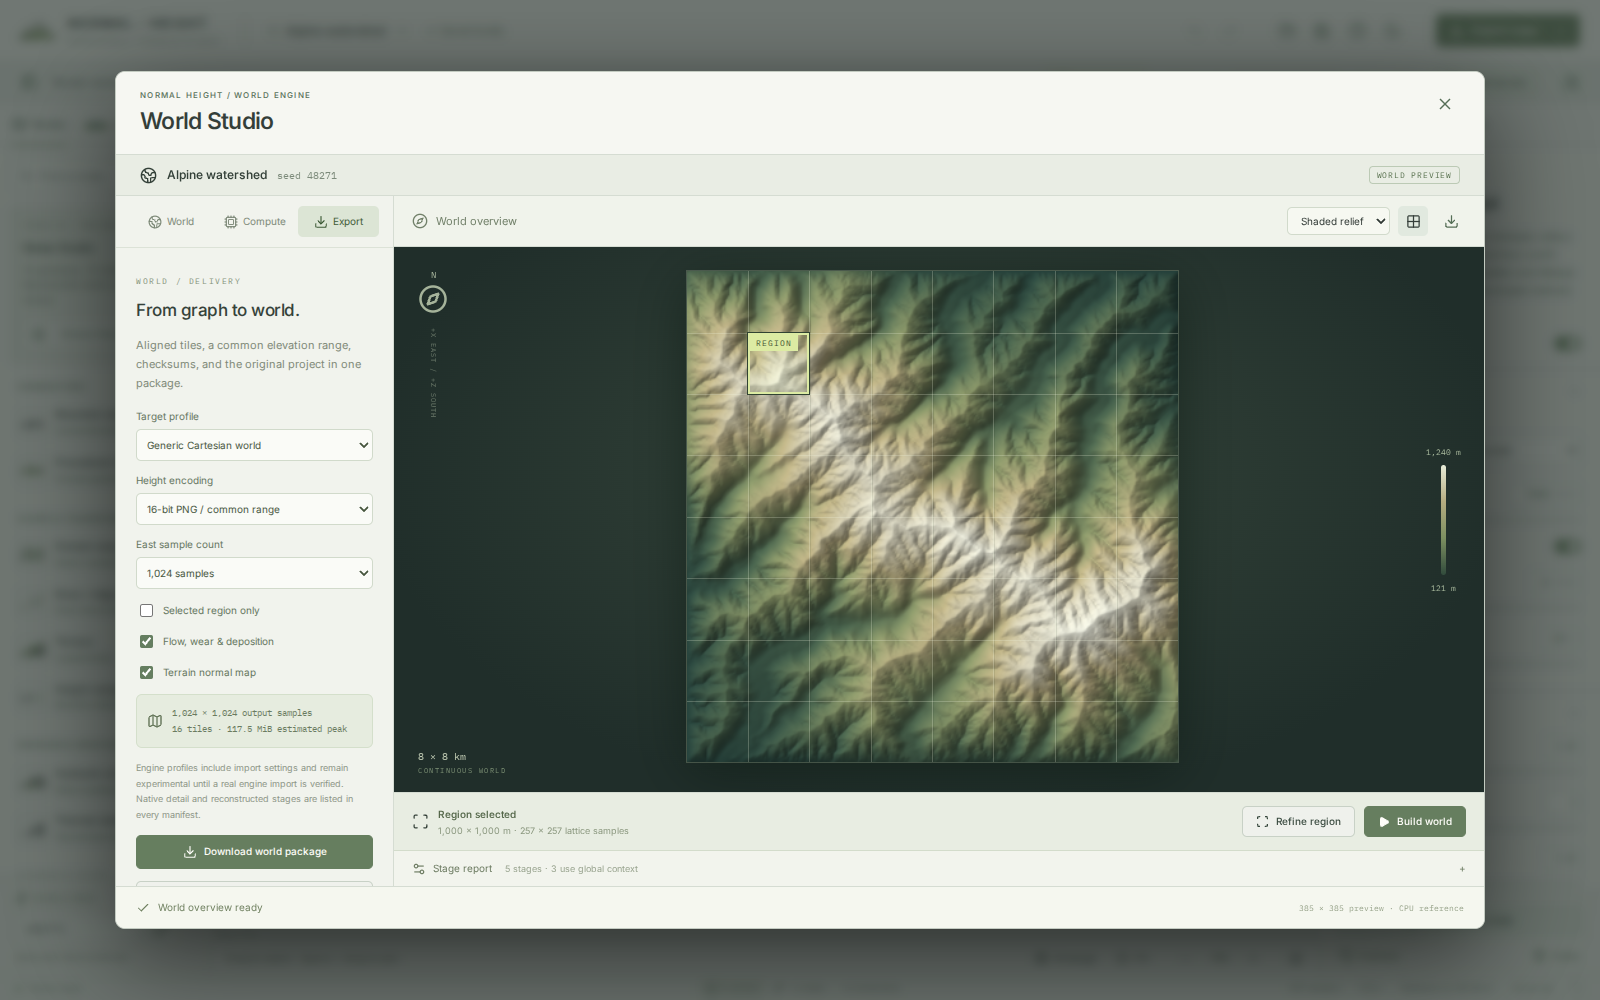
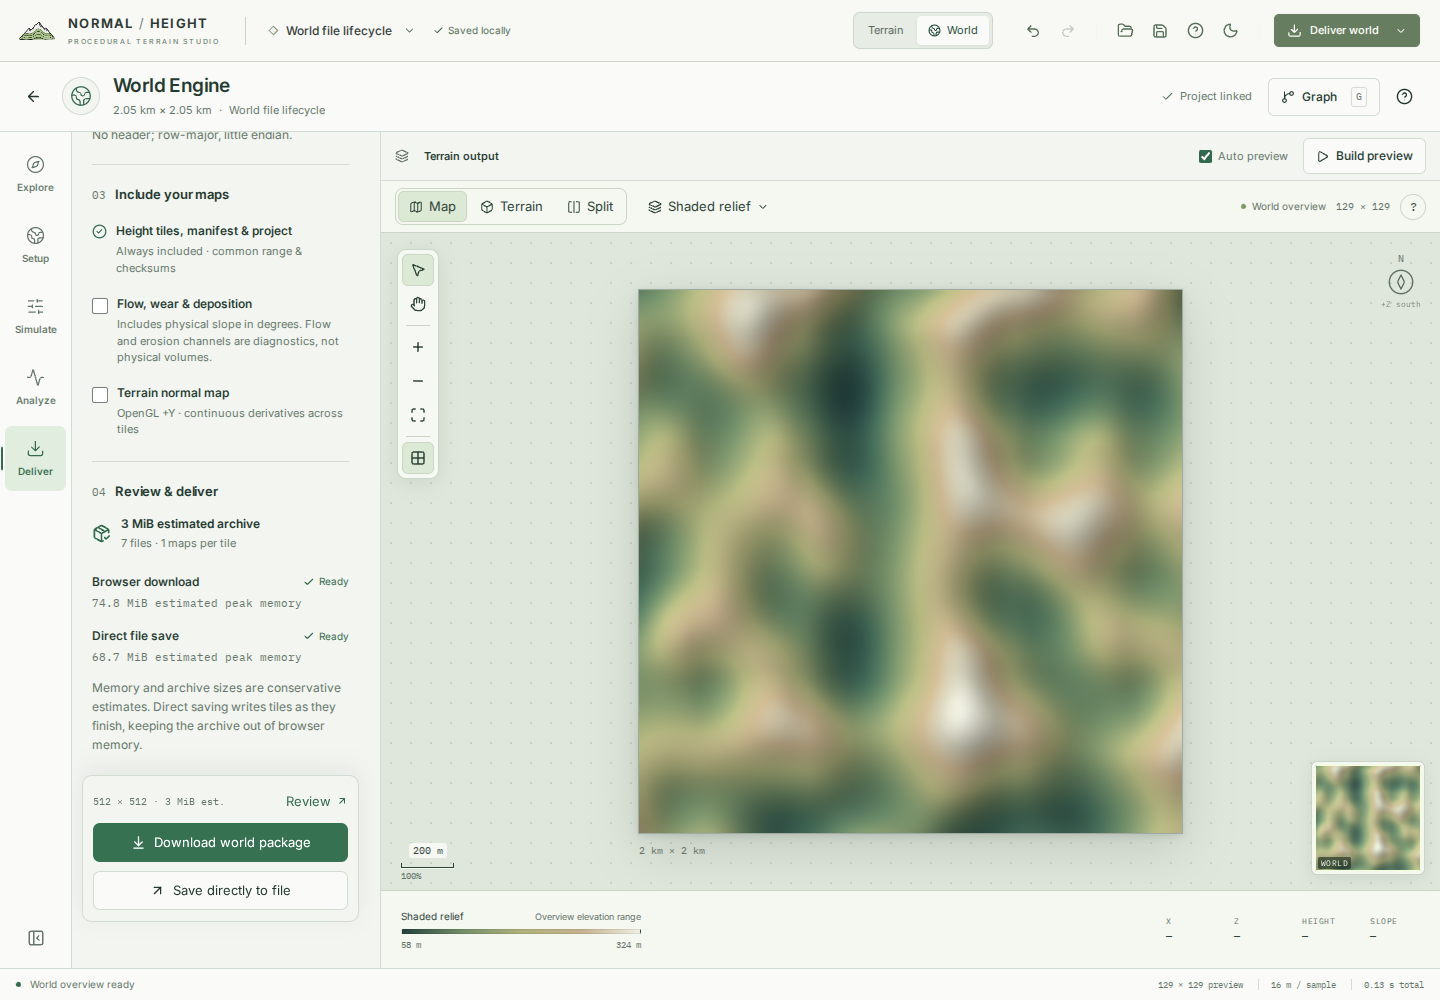
Publish verified World workspace screenshots and stabilize readiness checks

diff --git a/tests/e2e/world-studio.spec.ts b/tests/e2e/world-studio.spec.ts
@@ -58,7 +58,9 @@ test('World Studio builds, refines, exports aligned tiles, and saves explicit wo
     mimeType: 'application/json',
     buffer: Buffer.from(JSON.stringify(project)),
   });
-  await expect(page.getByText('Terrain ready', { exact: true })).toBeVisible();
+  await expect(
+    page.getByRole('contentinfo').getByText('Terrain ready', { exact: true }),
+  ).toBeVisible();
   await page.getByRole('button', { name: 'Build terrain', exact: true }).click();
   await expect(page.getByRole('button', { name: 'Compute diagnostics' })).toContainText('3 cached');
   await page.getByRole('button', { name: 'World Studio', exact: true }).click();
@@ -156,7 +158,9 @@ test('cancelled world work cannot publish and the workspace fits a compact viewp
     await route.continue();
   });
   await page.goto('/');
-  await expect(page.getByText('Terrain ready', { exact: true })).toBeVisible({ timeout: 90_000 });
+  await expect(
+    page.getByRole('contentinfo').getByText('Terrain ready', { exact: true }),
+  ).toBeVisible({ timeout: 90_000 });
   await page.getByRole('button', { name: 'World Studio', exact: true }).click();
   const dialog = page.getByRole('region', { name: 'World Studio', exact: true });
   await dialog.getByRole('button', { name: 'Cancel preview', exact: true }).click();

diff --git a/tests/e2e/world-transport.spec.ts b/tests/e2e/world-transport.spec.ts
@@ -61,7 +61,9 @@ test('World transport is opt-in and reports a finite conservative 64² reference
   });
   await expect(page.getByText(project.name, { exact: true })).toBeVisible();
   await page.getByRole('button', { name: 'Build terrain', exact: true }).click();
-  await expect(page.getByText('Terrain ready', { exact: true })).toBeVisible({ timeout: 90_000 });
+  await expect(
+    page.getByRole('contentinfo').getByText('Terrain ready', { exact: true }),
+  ).toBeVisible({ timeout: 90_000 });
   await page.getByRole('button', { name: 'World Studio', exact: true }).click();
   const dialog = page.getByRole('region', { name: 'World Studio', exact: true });
   await expect(dialog.getByText('World overview ready', { exact: true })).toBeVisible({

diff --git a/tests/e2e/world-highres.spec.ts b/tests/e2e/world-highres.spec.ts
@@ -222,7 +222,9 @@ test('actual CPU World UI downloads and independently verifies 4096 and 8192 PNG
       buffer: Buffer.from(projectJSON),
     });
     await expect(page.getByRole('button', { name: project.name, exact: true })).toBeVisible();
-    await expect(page.getByText('Terrain ready', { exact: true })).toBeVisible({ timeout: 90_000 });
+    await expect(
+      page.getByRole('contentinfo').getByText('Terrain ready', { exact: true }),
+    ).toBeVisible({ timeout: 90_000 });
     await page.getByRole('button', { name: '2D map', exact: true }).click();
     await expect(page.getByRole('button', { name: '2D map', exact: true })).toHaveAttribute(
       'aria-pressed',

diff --git a/tests/e2e/world-file-export.spec.ts b/tests/e2e/world-file-export.spec.ts
@@ -185,7 +185,9 @@ async function openExport(page: Page, duplicateMasks = false) {
     buffer: Buffer.from(JSON.stringify(project)),
   });
   await expect(page.getByRole('button', { name: project.name, exact: true })).toBeVisible();
-  await expect(page.getByText('Terrain ready', { exact: true })).toBeVisible();
+  await expect(
+    page.getByRole('contentinfo').getByText('Terrain ready', { exact: true }),
+  ).toBeVisible();
   await page.getByRole('button', { name: '2D map', exact: true }).click();
   await page.getByRole('button', { name: 'World Studio', exact: true }).click();
   const dialog = page.getByRole('region', { name: 'World Studio', exact: true });

diff --git a/tests/e2e/world-cache.spec.ts b/tests/e2e/world-cache.spec.ts
@@ -33,7 +33,9 @@ async function openWorld(page: Page, fixture: Buffer, reload = false): Promise<L
     mimeType: 'application/json',
     buffer: fixture,
   });
-  await expect(page.getByText('Terrain ready', { exact: true })).toBeVisible({ timeout: 90_000 });
+  await expect(
+    page.getByRole('contentinfo').getByText('Terrain ready', { exact: true }),
+  ).toBeVisible({ timeout: 90_000 });
   await page.getByRole('button', { name: 'World Studio', exact: true }).click();
   const workspace = page.getByRole('region', { name: 'World Studio', exact: true });
   // Keep explicit builds observable; camera settling must not replace their

diff --git a/tests/e2e/world-workspace.spec.ts b/tests/e2e/world-workspace.spec.ts
@@ -40,7 +40,9 @@ async function openWorkspace(page: Page) {
     mimeType: 'application/json',
     buffer: Buffer.from(JSON.stringify(project)),
   });
-  await expect(page.getByText('Terrain ready', { exact: true })).toBeVisible({ timeout: 90_000 });
+  await expect(
+    page.getByRole('contentinfo').getByText('Terrain ready', { exact: true }),
+  ).toBeVisible({ timeout: 90_000 });
   await page.getByRole('button', { name: 'World Studio', exact: true }).click();
   const studio = page.getByRole('region', { name: 'World Studio', exact: true });
   await expect(studio.getByText('World overview ready', { exact: true })).toBeVisible({

diff --git a/src/components/world/WorldExportPanel.tsx b/src/components/world/WorldExportPanel.tsx
@@ -750,7 +750,7 @@ export function WorldExportPanel({
               </strong>
               <small>
                 {estimate
-                  ? `${number(plan.files, 0)} files · ${number(plan.mapCount, 0)} maps per tile`
+                  ? `${number(plan.files, 0)} files · ${number(plan.mapCount, 0)} ${plan.mapCount === 1 ? 'map' : 'maps'} per tile`
                   : 'Resolve the issue below to continue.'}
               </small>
             </div>

diff --git a/docs/MEDIA.md b/docs/MEDIA.md
@@ -4,18 +4,28 @@ Repository screenshots and GIFs are captured from the production application,
 with real generated heightfields, rendered materials, editor controls and
 worker diagnostics. They are not generated marketing mockups.
 
-| Asset                    | What it shows                                                                |
-| ------------------------ | ---------------------------------------------------------------------------- |
-| `studio-3d.png`          | Current Alpine terrain, graph and inspector, golden-hour lighting            |
-| `studio-flow.png`        | The actual hydraulic flow diagnostic                                         |
-| `landscape-tour.gif`     | Alpine watershed plus recent Studio ridgelands, wind dunes and impact fields |
-| `compute-cache.png`      | A real repeated build with upstream cache reuse                              |
-| `world-studio.png`       | Continuous world overview, shared tile grid and selected region              |
-| `world-stage-report.png` | Regional preview with explicit global/native stage spacing                   |
-| `world-export.png`       | Current tiled world package controls                                         |
-| `world-workflow.gif`     | Overview → selection → refinement → diagnostic maps → stage report → export  |
+| Asset                       | What it shows                                                                 |
+| --------------------------- | ----------------------------------------------------------------------------- |
+| `studio-3d.png`             | Current Alpine terrain, graph and inspector, golden-hour lighting             |
+| `studio-flow.png`           | The actual hydraulic flow diagnostic                                          |
+| `landscape-tour.gif`        | Alpine watershed plus recent Studio ridgelands, wind dunes and impact fields  |
+| `compute-cache.png`         | A real repeated build with upstream cache reuse                               |
+| `world-studio.png`          | Persistent World workspace with overview, shared tile grid and physical scale |
+| `world-workspace-split.png` | The same completed World samples in Map and physical 3D panes                 |
+| `world-workspace-dark.png`  | Dark Analyze workspace with histogram, elevation section and comparison       |
+| `world-stage-report.png`    | Earlier numerical reference capture of global/native stage spacing            |
+| `world-export.png`          | Deliver preflight with destination budgets and reachable actions              |
+| `world-export-receipt.png`  | Completed file export with captured dimensions, encoding and receipt          |
+| `world-workflow.gif`        | Overview → selection → refinement → diagnostic maps → stage report → export   |
 
-`images/capture-provenance.json` records the exact source revision, UTC capture
+The persistent World workspace PNGs were copied from the production-browser
+evidence in [World Engine correctness run 45710438900](https://github.com/dovvnloading/Normal-Height/actions/runs/45710438900).
+Their source commit, viewport and rendering environment are recorded separately
+in `images/world-workspace-provenance.json`. Run the World browser suite to
+regenerate these screenshots in `test-results/`; its controlled export picker
+uses real production workers, writes and archive verification.
+
+For the earlier Terrain and walkthrough media, `images/capture-provenance.json` records the exact source revision, UTC capture
 time, browser version, viewport, rendering backend and landscapes. A software
 capture is labeled ANGLE SwiftShader and must never be presented as hardware
 WebGPU or performance evidence. Camera/material/light controls remain actual

diff --git a/docs/WORLD_WORKSPACE.md b/docs/WORLD_WORKSPACE.md
@@ -16,6 +16,8 @@ The procedural graph can be opened as a resizable dock in the World workspace. S
 
 Valid World settings are linked back to the project through the normal project history and persistence path. An incomplete numeric edit stays in its field until it is committed with Enter or blur. Escape restores the current authored value. A failed save keeps the draft visible and reports the problem.
 
+![World Engine with the same sampled terrain in Map and Terrain panes](images/world-workspace-split.png)
+
 ## Navigation and display
 
 The map uses local Cartesian meters: +X is east, +Z is south, and the first raster row is north. Elevation is `datum + normalized terrain height × heightScale`. These coordinates are not a geographic coordinate reference system.
@@ -68,11 +70,15 @@ Statistics, histograms and elevation sections describe the completed preview gri
 
 **Pin current terrain** retains a completed field in memory. Wipe and elevation-difference comparisons require the same physical footprint. Compatible fields with different sample counts are interpolated for display. Both sides use a common color range, and differences compare physical elevations including scale and datum. The pinned field remains unchanged while a replacement build runs. Comparison mode holds its footprint instead of scheduling navigation-driven sampling.
 
+![Dark Analyze workspace with elevation distribution, a physical section and a pinned comparison](images/world-workspace-dark.png)
+
 ## Delivery is an independent job
 
 Delivery starts with a captured copy of the project, World definition, region, maps, profile and output dimensions. Changing workspace or continuing to explore does not change that package. Returning to Terrain keeps the export alive. Explicit **Cancel export** stops its worker and requests abort of an open writable stream; component disposal also cleans up a job and invalidates a still-pending file picker.
 
 The action dock stays reachable while reviewing settings. A job, failure or completion moves into view when its state changes. The receipt is visibly labeled **Last completed export**, with its completion time and captured footprint, so later edits remain distinct from the finished package.
+
+![Completed file export with captured settings, exact grid, encoding and file receipt](images/world-export-receipt.png)
 
 ### Output contracts
 

diff --git a/docs/WORLD_ENGINE.md b/docs/WORLD_ENGINE.md
@@ -42,7 +42,7 @@ truthful progress/resolution semantics, comparison behavior, delivery recovery
 and the verification commands. The following sections describe the numerical
 engine and its qualification evidence.
 
-![Recorded World overview and region selection from the earlier Studio interface](images/world-studio.png)
+![World overview with physical coordinates and a continuous tile grid in the persistent workspace](images/world-studio.png)
 
 ### Two evaluations, with explicit roles
 
@@ -90,7 +90,7 @@ their original boundary rules. The application refuses rectangular legacy
 graphs and periodic global simulations with an actionable error. Native
 rectangular graphs and the new rectangular transport reference are supported.
 
-![Per-stage execution, backend and spacing in the running application](images/world-stage-report.png)
+![Earlier stage-report capture recording per-stage execution, backend and spacing](images/world-stage-report.png)
 
 ## Persistent CPU computation
 
@@ -182,7 +182,7 @@ or a proven multirate coarse/fine coupling scheme.
 
 ## Export packages
 
-![Recorded World export controls from the earlier Studio interface](images/world-export.png)
+![Deliver mode with output checks, destination budgets, and reachable export actions](images/world-export.png)
 
 The exporter samples and encodes bounded tiles and streams ZIP chunks with
 consumer acknowledgments. File saves apply backpressure after each write.

diff --git a/README.md b/README.md
@@ -19,10 +19,10 @@ World-native 3D, regional refinement, analysis and delivery into one authoring
 flow. Its numerical engine remains an engineering preview; release
 qualification is recorded in the app, guides and exported manifests.
 
-![World Studio with a continuous terrain overview, shared tile grid, physical dimensions, and a selected region](docs/images/world-studio.png)
+![World Engine with a continuous terrain map and physical 3D terrain in the persistent Split workspace](docs/images/world-workspace-split.png)
 
-_Recorded terrain output from the earlier Studio interface. The current
-[World workspace guide](docs/WORLD_WORKSPACE.md) describes the redesigned controls and workflow._
+_The persistent workspace, captured from the production build in Chromium. See the
+[World workspace guide](docs/WORLD_WORKSPACE.md) for controls, feedback, and delivery._
 
 Open **World Studio** in the workspace toolbar. **Explore** provides a continuous
 map with cursor-centered zoom, pan, a navigator and physical probes; switch to
